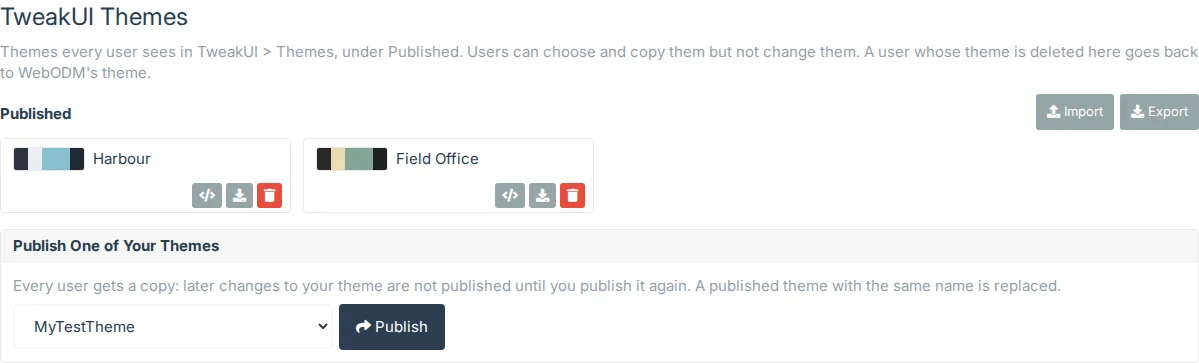
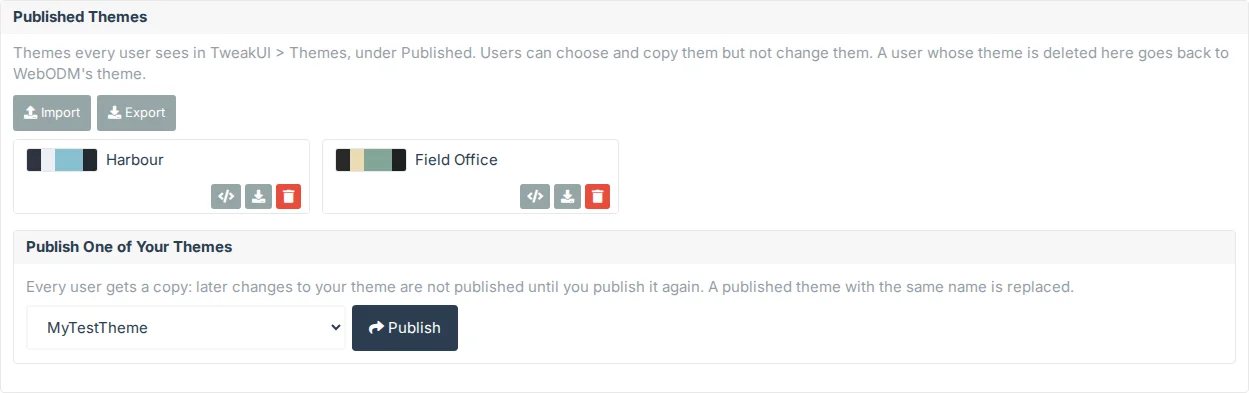
Administration: TweakUI Themes becomes the Published Themes section of Administration > TweakUI
One page and one side-menu link for the plugin's administration; the old address redirects to the section.

diff --git a/tweakui/templates/admin.html b/tweakui/templates/admin.html
@@ -1,8 +1,11 @@
 {% extends "app/plugins/templates/base.html" %}
 {% load i18n %}
 {% block content %}
-{% comment %}Administration > TweakUI, for superusers: which features users may have (access.py, features.py's
-admin_label). Each change is saved as it is made (admin_page.js). Colours come only from WebODM's theme classes.{% endcomment %}
+{% comment %}Administration > TweakUI, for superusers. Available to Users: which features users may have (access.py,
+features.py's admin_label), each change saved as it is made (admin_page.js). Published Themes: the themes every user
+sees under Settings > Themes > Published, with Import, Export, Copy JSON, Delete, and Publish a copy of one of your own
+themes (theme_editor.js, which works inside #tweakui-published). Colours come only from WebODM's theme classes; the
+swatches show each theme's own.{% endcomment %}
 <div id="tweakui-admin" class="tweakui-settings tweakui-admin" data-api="{{ api }}">
     {% csrf_token %}
     <h3>{% trans "TweakUI" %}</h3>
@@ -20,6 +23,55 @@ admin_label). Each change is saved as it is made (admin_page.js). Colours come o
         </div>
         {% endfor %}
     </div>
+    <section class="tweakui-group theme-border" aria-labelledby="published-themes">
+        <h5 class="theme-background-highlight" id="published-themes">{% trans "Published Themes" %}</h5>
+        <div id="tweakui-published" class="tweakui-published" data-api="{{ api }}">
+            <p class="text-muted">{% blocktrans %}Themes every user sees in TweakUI &gt; Themes, under Published. Users can choose and copy them but not change them. A user whose theme is deleted here goes back to WebODM's theme.{% endblocktrans %}</p>
+            <div class="tweakui-themes-heading">
+                <span class="tweakui-themes-buttons">
+                    <button type="button" class="btn btn-default btn-sm" data-theme-action="import"><i class="fa fa-upload"></i> {% trans "Import" %}</button>
+                    {% if published %}<a class="btn btn-default btn-sm" href="{{ api }}published/export" download><i class="fa fa-download"></i> {% trans "Export" %}</a>{% endif %}
+                </span>
+            </div>
+            {% if not published %}<p class="text-muted tweakui-themes-empty">{% trans "None yet: Publish one of your own themes, or Import." %}</p>{% endif %}
+            <div class="tweakui-themes" data-group="published" role="list" aria-labelledby="published-themes">
+                {% for theme in published %}
+                <div class="tweakui-theme theme-border" data-theme-id="published:{{ theme.id }}" role="listitem">
+                    <span class="tweakui-theme-label">
+                        <span class="tweakui-swatch theme-border">{% for color in theme.swatch %}<i style="background:{{ color }}"></i>{% endfor %}</span>
+                        <span class="tweakui-theme-name">{{ theme.name }}</span>
+                    </span>
+                    <span class="tweakui-theme-actions">
+                        <button type="button" class="btn btn-default btn-xs" data-theme-action="json" title="{% trans "Copy JSON" %}" aria-label="{% blocktrans with name=theme.name %}Copy {{ name }} as JSON{% endblocktrans %}"><i class="fa fa-code"></i></button>
+                        <a class="btn btn-default btn-xs" href="{{ api }}published/export?id={{ theme.id }}" download title="{% trans "Export" %}" aria-label="{% blocktrans with name=theme.name %}Export {{ name }}{% endblocktrans %}"><i class="fa fa-download"></i></a>
+                        <button type="button" class="btn btn-danger btn-xs" data-theme-action="delete" title="{% trans "Delete" %}" aria-label="{% blocktrans with name=theme.name %}Delete {{ name }}{% endblocktrans %}"><i class="fa fa-trash"></i></button>
+                    </span>
+                </div>
+                {% endfor %}
+            </div>
+            <p class="tweakui-published-status" role="status" aria-live="polite"></p>
+            <div class="tweakui-group theme-border">
+                <h5 class="theme-background-highlight" id="tweakui-publish-title">{% trans "Publish One of Your Themes" %}</h5>
+                <form class="tweakui-editor-form tweakui-publish" aria-labelledby="tweakui-publish-title" novalidate>
+                    {% if own %}
+                    <p class="text-muted">{% trans "Every user gets a copy: later changes to your theme are not published until you publish it again. A published theme with the same name is replaced." %}</p>
+                    <div class="tweakui-publish-row">
+                        <label for="tweakui-publish-theme" class="sr-only">{% trans "Theme" %}</label>
+                        <select id="tweakui-publish-theme" class="form-control">
+                            {% for theme in own %}<option value="{{ theme.id }}">{{ theme.name }}</option>{% endfor %}
+                        </select>
+                        <button type="submit" class="btn btn-primary"><i class="fa fa-share"></i> {% trans "Publish" %}</button>
+                    </div>
+                    {% else %}
+                    <p class="text-muted">{% blocktrans %}You have no themes of your own yet: make one in <a href="/plugins/tweakui/#themes">TweakUI &gt; Themes</a>, under My Themes.{% endblocktrans %}</p>
+                    {% endif %}
+                </form>
+            </div>
+            {% include import_panel with target="published" %}
+        </div>
+    </section>
 </div>
+{{ theme_colors|json_script:"tweakui-theme-colors" }}
 <script src="{{ public }}admin_page.js"></script>
+<script src="{{ public }}theme_editor.js"></script>
 {% endblock %}

diff --git a/tweakui/public/__tests__/main.test.js b/tweakui/public/__tests__/main.test.js
@@ -152,7 +152,7 @@ describe("the Storage and Performance views in the side menu", () => {
     });
 });
 
-describe("Administration > TweakUI and TweakUI Themes in the side menu", () => {
+describe("Administration > TweakUI in the side menu", () => {
     afterEach(() => { delete window.TweakUI; delete window.jQuery; window.history.replaceState(null, "", "/"); });
 
     const admin = () => sideMenu('<li><a href="#">Administration<span class="fa arrow"></span></a><ul class="nav nav-second-level">' +
@@ -160,17 +160,16 @@ describe("Administration > TweakUI and TweakUI Themes in the side menu", () => {
         '<li><a href="/admin/app/plugin/">Plugins</a></li></ul></li>');
     const adminItems = () => Array.from(document.querySelectorAll(".nav-second-level > li")).map(li => li.textContent.trim());
 
-    test("a superuser gets both links right after Theme", () => {
+    test("a superuser gets one link right after Theme, once", () => {
         window.TweakUI = {settings: {}, superuser: true};
         admin();
         run();
-        expect(adminItems()).toEqual(["Brand", "Theme", "TweakUI", "TweakUI Themes", "Plugins"]);
-        const link = document.querySelector('a[href="/plugins/tweakui/admin/themes/"]');
-        expect(link.querySelector("i").className).toBe("fa fa-palette fa-fw");
-        expect(document.querySelector('a[href="/plugins/tweakui/admin/"] i').className).toBe("fa fa-sliders-h fa-fw");
+        expect(adminItems()).toEqual(["Brand", "Theme", "TweakUI", "Plugins"]);
+        const link = document.querySelector('a[href="/plugins/tweakui/admin/"]');
+        expect(link.querySelector("i").className).toBe("fa fa-sliders-h fa-fw");
         expect(link.classList.contains("active")).toBe(false);
         run();
-        expect(adminItems().length).toBe(5);
+        expect(adminItems().length).toBe(4);
     });
 
     test("other users, staff included, get no link", () => {
@@ -182,24 +181,13 @@ describe("Administration > TweakUI and TweakUI Themes in the side menu", () => {
 
     test("on the page itself, the link is active and Administration open", () => {
         window.TweakUI = {settings: {}, superuser: true};
-        window.history.replaceState(null, "", "/plugins/tweakui/admin/themes/");
+        window.history.replaceState(null, "", "/plugins/tweakui/admin/");
         window.jQuery = () => ({data: name => name === "metisMenu" ? {} : undefined});
         admin();
         run();
-        const link = document.querySelector('a[href="/plugins/tweakui/admin/themes/"]');
-        expect(link.classList.contains("active")).toBe(true);
+        expect(document.querySelector('a[href="/plugins/tweakui/admin/"]').classList.contains("active")).toBe(true);
         const list = document.querySelector(".nav-second-level");
         expect(list.parentNode.classList.contains("active")).toBe(true);
         expect(list.classList.contains("in")).toBe(true);
-    });
-
-    test("on Administration > TweakUI, its own link is active and not the themes'", () => {
-        window.TweakUI = {settings: {}, superuser: true};
-        window.history.replaceState(null, "", "/plugins/tweakui/admin/");
-        admin();
-        run();
-        expect(document.querySelector('a[href="/plugins/tweakui/admin/"]').classList.contains("active")).toBe(true);
-        expect(document.querySelector('a[href="/plugins/tweakui/admin/themes/"]').classList.contains("active")).toBe(false);
-        expect(document.querySelector(".nav-second-level").parentNode.classList.contains("active")).toBe(true);
     });
 });

diff --git a/tweakui/public/main.js b/tweakui/public/main.js
@@ -6,8 +6,7 @@
 
     var ui = window.TweakUI, NAME = "menus";
     var TWEAKUI = "/plugins/tweakui/", DIAGNOSTIC = "/plugins/diagnostic/", STORAGE = "/plugins/tweakui/storage/",
-        PERFORMANCE = "/plugins/tweakui/performance/", PUBLISHED = "/plugins/tweakui/admin/themes/",
-        ADMIN = "/plugins/tweakui/admin/";
+        PERFORMANCE = "/plugins/tweakui/performance/", ADMIN = "/plugins/tweakui/admin/";
     // The WebODM elements it relies on, to check against a new WebODM: the side menu, its About item and
     // Administration's Theme item
     var SELECTORS = {sideMenu: "#side-menu", about: "#about-menu", adminTheme: '#side-menu .nav-second-level a[href^="/admin/app/theme/"]'};
@@ -73,28 +72,24 @@
         }
     }
 
-    // Administration > TweakUI and TweakUI Themes, for superusers (settings.js says so): WebODM has no hook in
-    // Administration, so the links go right after its Theme item. On either page, Administration is open with its
-    // link active.
+    // Administration > TweakUI, for superusers (settings.js says so): WebODM has no hook in Administration, so the
+    // link goes right after its Theme item. On that page, Administration is open with the link active.
     function adminMenu() {
-        if (!ui.superuser || document.querySelector(SELECTORS.sideMenu + ' a[href="' + PUBLISHED + '"]')) return;
+        if (!ui.superuser || document.querySelector(SELECTORS.sideMenu + ' a[href="' + ADMIN + '"]')) return;
         var theme = document.querySelector(SELECTORS.adminTheme);
         if (!theme) return;
-        var item = theme.parentNode, list = item.parentNode, after = item.nextSibling;
-        [["TweakUI", ADMIN, "fa fa-sliders-h fa-fw"], ["TweakUI Themes", PUBLISHED, "fa fa-palette fa-fw"]].forEach(function (link) {
-            var li = ui.sideLink(document, link[0], link[1], link[2]);
-            list.insertBefore(li, after);
-            if (window.location.pathname !== link[1]) return;
-            li.firstChild.className = "active";
-            var admin = list.parentNode;
-            if (!/\bactive\b/.test(admin.className)) admin.className += " active";
-            // metisMenu has started: show the list open, as it would for the active item
-            var $ = window.jQuery;
-            if ($ && $(document.querySelector(SELECTORS.sideMenu)).data("metisMenu")) {
-                list.className += " collapse in";
-                list.setAttribute("aria-expanded", "true");
-            }
-        });
+        var list = theme.parentNode.parentNode, li = ui.sideLink(document, "TweakUI", ADMIN, "fa fa-sliders-h fa-fw");
+        list.insertBefore(li, theme.parentNode.nextSibling);
+        if (window.location.pathname !== ADMIN) return;
+        li.firstChild.className = "active";
+        var admin = list.parentNode;
+        if (!/\bactive\b/.test(admin.className)) admin.className += " active";
+        // metisMenu has started: show the list open, as it would for the active item
+        var $ = window.jQuery;
+        if ($ && $(document.querySelector(SELECTORS.sideMenu)).data("metisMenu")) {
+            list.className += " collapse in";
+            list.setAttribute("aria-expanded", "true");
+        }
     }
 
     var menus = ui.guard(NAME, function () {

diff --git a/dev/screenshots.js b/dev/screenshots.js
@@ -180,7 +180,7 @@ const SHOTS = [
         },
     },
     {
-        // Administration > TweakUI Themes with two sample published themes (Nord's and Gruvbox Dark's colours) and,
+        // Administration > TweakUI's Published Themes with two sample published themes (Nord's and Gruvbox Dark's colours) and,
         // without own themes, one of the account's own to publish: added for the shot (under names not used yet) and
         // deleted afterwards
         name: "theme-published", settings: {},
@@ -196,9 +196,9 @@ const SHOTS = [
             if (!(await s.api("GET", "/api/plugins/tweakui/themes")).length) {
                 s.ownAdded = (await s.api("POST", "/api/plugins/tweakui/themes", {name: "Survey Day", colors: colors["solarized-light"].colors})).id;
             }
-            await s.page.goto(s.base + "/plugins/tweakui/admin/themes/");
+            await s.page.goto(s.base + "/plugins/tweakui/admin/");
             await s.page.waitForTimeout(300);
-            return ".tweakui-published";
+            return 'section[aria-labelledby="published-themes"]';
         },
         async cleanup(s) {
             if (s.ownAdded) await s.api("DELETE", "/api/plugins/tweakui/themes/" + s.ownAdded);
@@ -209,12 +209,13 @@ const SHOTS = [
         },
     },
     {
-        // Administration > TweakUI as it is (superusers: the account must be one); nothing is changed
+        // Administration > TweakUI's Available to Users as it is (superusers: the account must be one); nothing is
+        // changed
         name: "admin", settings: {},
         async run(s) {
             await s.page.goto(s.base + "/plugins/tweakui/admin/");
             await s.page.waitForSelector(".tweakui-admin");
-            return ".tweakui-admin";
+            return ".tweakui-admin > div.tweakui-group";
         },
     },
     {

diff --git a/tweakui/public/theme_editor.js b/tweakui/public/theme_editor.js
@@ -6,8 +6,9 @@
 // Also: Copy JSON on every theme (the theme as {name, colors} on the clipboard, through task_details.js's copy), and
 // Import, a panel that takes a JSON file or text of one theme or a list (themes/import) and says what was added,
 // replaced or refused; Close then reloads the page to list them. Export is a plain download link (themes/export).
-// Administration > TweakUI Themes (templates/published.html) uses it too, without the editor: Copy JSON, Import
-// (into the published themes, the panel's data-import-path), Delete, and Publish a copy of one of your own themes.
+// Administration > TweakUI's Published Themes (#tweakui-published in templates/admin.html) uses it too, without the
+// editor: Copy JSON, Import (into the published themes, the panel's data-import-path), Delete, and Publish a copy of
+// one of your own themes.
 // UMD, so Jest can load it.
 (function (root, factory) {
     var node = typeof module === "object" && module.exports;
@@ -271,7 +272,7 @@
         });
     }
 
-    // Administration > TweakUI Themes: a failure of Delete or Publish
+    // Administration > TweakUI > Published Themes: a failure of Delete or Publish
     function publishedStatus(state, text) {
         var status = state.page.querySelector(".tweakui-published-status");
         if (!status) return;

diff --git a/tweakui/public/main.css b/tweakui/public/main.css
@@ -59,7 +59,8 @@ html.tweakui #side-menu > li:has(> a[href="/plugins/tweakui/"]):not(.tweakui-men
 .tweakui-settings .tweakui-import-report p, .tweakui-settings .tweakui-import-report ul { margin: 0 0 6px; }
 .tweakui-settings .tweakui-import code { white-space: normal; }
 .tweakui-settings .tweakui-themes-empty { margin: 0; }
-/* Administration > TweakUI Themes (published.html) */
+/* Administration > TweakUI > Published Themes (admin.html): inside its group, padded like the settings */
+.tweakui-admin .tweakui-published { padding: 8px 12px 12px; }
 .tweakui-published .tweakui-themes-heading { margin-top: 0; }
 .tweakui-published .tweakui-published-status { margin: 12px 0 0; }
 .tweakui-published .tweakui-published-status:empty { display: none; }

diff --git a/tweakui/templates/import_panel.html b/tweakui/templates/import_panel.html
@@ -1,5 +1,5 @@
 {% load i18n %}{% comment %}Import (theme_editor.js): a JSON file or text of one theme or a list, into My Themes (target "own",
-Settings > Themes) or the published themes (target "published", Administration > TweakUI Themes){% endcomment %}
+Settings > Themes) or the published themes (target "published", Administration > TweakUI > Published Themes){% endcomment %}
 <div class="tweakui-group theme-border tweakui-import" data-import-path="{% if target == "published" %}published{% else %}themes{% endif %}/import" hidden>
     <h5 class="theme-background-highlight" id="tweakui-import-title">{% trans "Import Themes" %}</h5>
     <form class="tweakui-editor-form" aria-labelledby="tweakui-import-title" novalidate>

diff --git a/tweakui/public/__tests__/theme_editor.test.js b/tweakui/public/__tests__/theme_editor.test.js
@@ -264,7 +264,7 @@ test("an import with everything refused changes nothing, so Close doesn't reload
     expect(win.location.reload).not.toHaveBeenCalled();
 });
 
-describe("Administration > TweakUI Themes", () => {
+describe("Administration > TweakUI > Published Themes", () => {
     const PUBLISHED = {"published:p1": {name: "Shared", colors: THEMES.nord.colors}};
 
     function adminPage(own) {

diff --git a/tweakui/plugin.py b/tweakui/plugin.py
@@ -1,5 +1,5 @@
 from django.contrib.auth.decorators import login_required
-from django.http import HttpResponseForbidden
+from django.http import HttpResponseForbidden, HttpResponseRedirect
 from django.shortcuts import render
 from django.utils.translation import gettext_lazy as _
 
@@ -69,16 +69,18 @@ class Plugin(PluginBase):
                 "withheld": access.is_withheld(request.user, "performance_view"),
             }, status=403 if access.is_withheld(request.user, "performance_view") else 200)
 
-        # Administration > TweakUI Themes: the published themes, for superusers only (main.js adds the link)
+        # Administration > TweakUI, for superusers only (main.js adds the link): which features users may have
+        # (access.py) and the published themes
         @login_required
-        def published_page(request):
+        def admin_page(request):
             if not request.user.is_superuser:
                 return HttpResponseForbidden()
             published = [dict(t, swatch=[t["colors"][f] for f in themes.SWATCH]) for t in custom_themes.published()]
-            return render(request, self.template_path("published.html"), {
-                "title": _("TweakUI Themes"),
+            return render(request, self.template_path("admin.html"), {
+                "title": _("TweakUI"),
                 "public": self.public_url(""),
                 "api": "/api/plugins/{}/".format(self.get_name()),
+                "features": access.page(),
                 "published": published,
                 "own": custom_themes.own(request.user),
                 "theme_colors": {custom_themes.PUBLISHED + t["id"]: {"name": t["name"], "colors": t["colors"]}
@@ -86,17 +88,9 @@ class Plugin(PluginBase):
                 "import_panel": self.template_path("import_panel.html"),
             })
 
-        # Administration > TweakUI: which features users may have (access.py), for superusers only
-        @login_required
-        def admin_page(request):
-            if not request.user.is_superuser:
-                return HttpResponseForbidden()
-            return render(request, self.template_path("admin.html"), {
-                "title": _("TweakUI"),
-                "public": self.public_url(""),
-                "api": "/api/plugins/{}/".format(self.get_name()),
-                "features": access.page(),
-            })
+        # Administration > TweakUI Themes was a page of its own until it became the Published Themes section
+        def published_page(request):
+            return HttpResponseRedirect("/plugins/{}/admin/#published-themes".format(self.get_name()))
 
         return [
             MountPoint("$", settings_page),

diff --git a/tweakui/tests/test_tweakui.py b/tweakui/tests/test_tweakui.py
@@ -808,7 +808,7 @@ class TestCustomThemes(TweakUITestCase):
 
 
 PUBLISHED = "/api/plugins/tweakui/published"
-ADMIN_PAGE = "/plugins/tweakui/admin/themes/"
+ADMIN_PAGE = "/plugins/tweakui/admin/"
 
 
 class TestPublishedThemes(TweakUITestCase):
@@ -952,6 +952,20 @@ class TestPublishedThemes(TweakUITestCase):
         self.assertContains(res, 'data-theme-action="json"', count=1)
         self.assertContains(res, '<option value="%s">Night</option>' % mine["id"])
         self.assertIn("published:" + published["id"], res.context["theme_colors"])
+
+    def test_the_published_themes_are_a_section_of_administration_tweakui_with_both_scripts(self):
+        body = self.admin.get(ADMIN_PAGE).content.decode()
+        self.assertLess(body.index("Available to Users"), body.index('id="published-themes">Published Themes<'))
+        self.assertLess(body.index('id="published-themes"'), body.index('id="tweakui-published"'))
+        self.assertIn("admin_page.js", body)
+        self.assertIn("theme_editor.js", body)
+        self.assertIn('id="tweakui-theme-colors"', body)
+
+    def test_the_old_tweakui_themes_address_leads_to_the_section(self):
+        for client in (self.admin, Client()):
+            res = client.get("/plugins/tweakui/admin/themes/")
+            self.assertEqual(res.status_code, status.HTTP_302_FOUND)
+            self.assertEqual(res["Location"], "/plugins/tweakui/admin/#published-themes")
 
 
 class TestSourceFrames(TweakUITestCase):

diff --git a/tweakui/api.py b/tweakui/api.py
@@ -116,7 +116,7 @@ class ThemesExportView(APIView):
 
 
 class IsSuperuser(permissions.BasePermission):
-    """Administration > TweakUI and TweakUI Themes: superusers only (not other staff)"""
+    """Administration > TweakUI (its features and published themes): superusers only (not other staff)"""
 
     def has_permission(self, request, view):
         return bool(request.user and request.user.is_authenticated and request.user.is_superuser)
@@ -304,7 +304,7 @@ def settings_script(request):
     if request.user.is_authenticated:
         script += "window.TweakUI.themes = %s;\n" % _script_json(themes.theme_list(request.user))
     if request.user.is_authenticated and request.user.is_superuser:
-        # main.js adds Administration > TweakUI Themes to the side menu
+        # main.js adds Administration > TweakUI to the side menu
         script += "window.TweakUI.superuser = true;\n"
     if getattr(django_settings, "DESKTOP_MODE", False):
         # WebODM hides its header (its Windows app): the theme and units menus go in the side menu

diff --git a/tweakui/custom_themes.py b/tweakui/custom_themes.py
@@ -1,7 +1,7 @@
 """
 Custom themes: each user's own themes (Settings > Themes > My Themes), a list of {id, name, colors} in their data
-store, and the published themes every user sees (Administration > TweakUI Themes, superusers only), a list alike in
-the plugin's global data store. Every theme written is checked here first: its colours go into CSS
+store, and the published themes every user sees (Administration > TweakUI > Published Themes, superusers only), a
+list alike in the plugin's global data store. Every theme written is checked here first: its colours go into CSS
 (themes.colors_css).
 """
 import re
